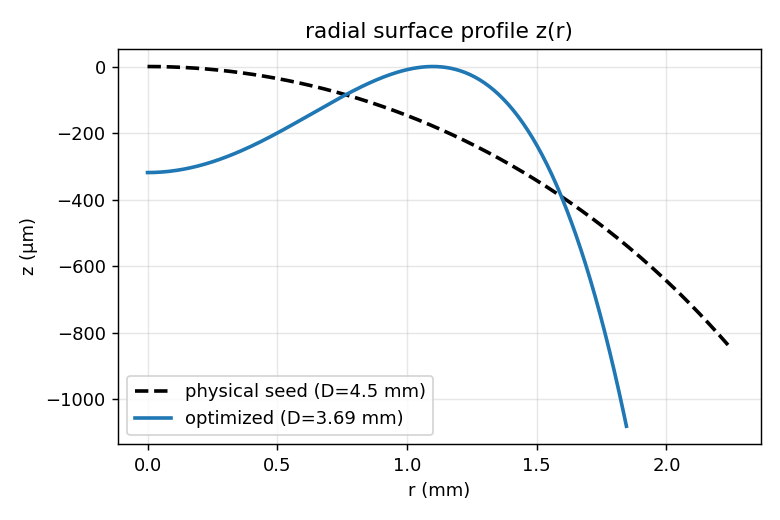
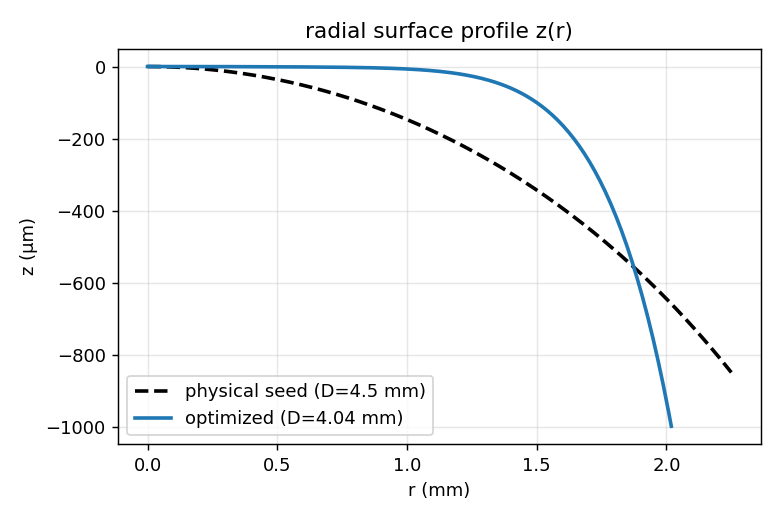
fix(examples): constrain example23 to a convex diverging cap (well-posed), match PyTorch config, fit +-50 deg

diff --git a/examples/example23_optimize_radial_element.py b/examples/example23_optimize_radial_element.py
@@ -8,11 +8,14 @@ curved *rigid* cap whose surface sag reproduces the same aperture phase. Collaps
 the paper's doublet through a refractive-index (Snell) model gives one effective
 diverging cap ``z(r) = −(n₂−n₁)·(R−√(R²−r²))`` (R = 3.2 mm, n₂−n₁ ≈ 0.92).
 
-This script seeds `scipy.optimize` from that physical cap and tunes a polynomial sag
-``z(r) = −λ·Σ c_k (r/R)^{2(k+1)}`` to the paper's measured directivity (−6 dB at
-33.17°), then shows with `plotting.visualize_element` how closely the cap matches.
-Seeding from the physical cap matters: a random start matches the far-field bell but
-lands on a non-physical (non-diverging) surface.
+This script seeds `scipy.optimize` from that physical cap and tunes the even-power
+coefficients of an axisymmetric sag ``z(r) = −λ·Σ c_k (r/R)^{2(k+1)}`` (plus the
+diameter) to the paper's measured directivity (−6 dB at 33.17°), then shows with
+`plotting.visualize_element` how closely the cap matches. Matching the main lobe alone
+is under-determined — a central-dimple aspheric fits it as well as a smooth cap — so the
+coefficients are held **non-negative**, which keeps the surface a convex diverging cap
+(apex at r=0) and makes the recovered surface unique and physical rather than an artefact
+of the optimizer.
 
 Run with:
     uv run python examples/example23_optimize_radial_element.py
@@ -34,9 +37,13 @@ C0, FC = 1540.0, 1e6
 LAMBDA_MM = C0 / FC * 1e3
 TARGET_HALF_DEG = 33.17  # paper's measured −6 dB half-angle with the lens
 N_COEFFS = 4  # fit-MSE plateaus by ~4 even-power terms; higher ones are near-collinear
-ANGLE = np.linspace(-70, 70, 281)
-FIT = np.abs(ANGLE) <= 40.0  # fit the main lobe (±40°), where the bell shape matters
-D_BOUNDS, COEF_BOUNDS = (2.5, 6.0), (-2.0, 2.0)
+ANGLE = np.linspace(-60, 60, 241)
+FIT = np.abs(ANGLE) <= 50.0  # fit the bell over ±50°
+# Non-negative coefficients keep every u^{2(k+1)} term increasing, so z(r) decreases
+# monotonically from the centre: a convex *diverging* cap (apex at r=0). This makes the
+# inverse problem well-posed — without it a central-dimple aspheric fits the same main
+# lobe just as well, so the recovered surface would depend on the optimizer, not physics.
+D_BOUNDS, COEF_BOUNDS = (2.5, 5.5), (0.0, 3.0)
 
 # Paper's doublet collapsed to one effective diverging cap (both faces R = 3.2 mm,
 # epoxy c=2570 then silicone c=1015 → index contrast n₂−n₁ = c0/c₂ − c0/c₁).
@@ -109,9 +116,11 @@ reference_db = np.clip(
 r_seed = np.linspace(0.0, D_PHYS_MM / 2 * 1e-3, 400)
 u_seed = r_seed / (D_PHYS_MM / 2 * 1e-3)
 basis = np.stack([u_seed ** (2 * (k + 1)) for k in range(N_COEFFS)], 1)
-c_seed = np.linalg.lstsq(basis, -physical_sag(r_seed) / (LAMBDA_MM * 1e-3), rcond=None)[
-    0
-]
+c_seed = np.clip(
+    np.linalg.lstsq(basis, -physical_sag(r_seed) / (LAMBDA_MM * 1e-3), rcond=None)[0],
+    0.0,
+    None,
+)  # the physical cap is already convex (coeffs ≥ 0); clip guarantees a feasible start
 
 
 def loss(p):
